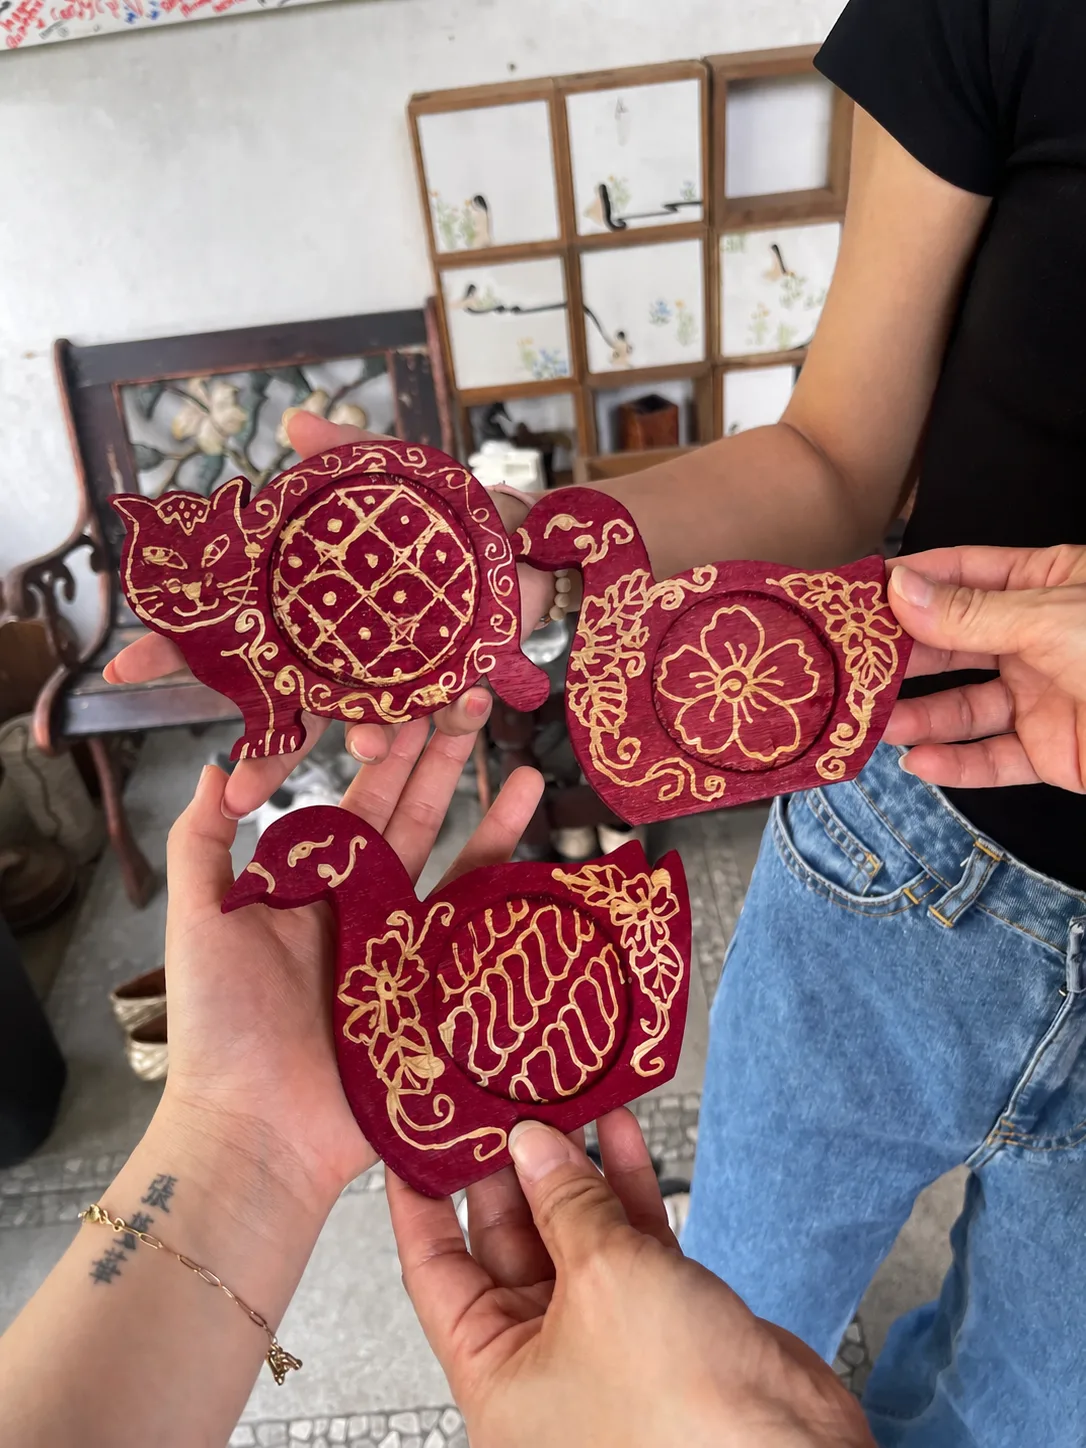
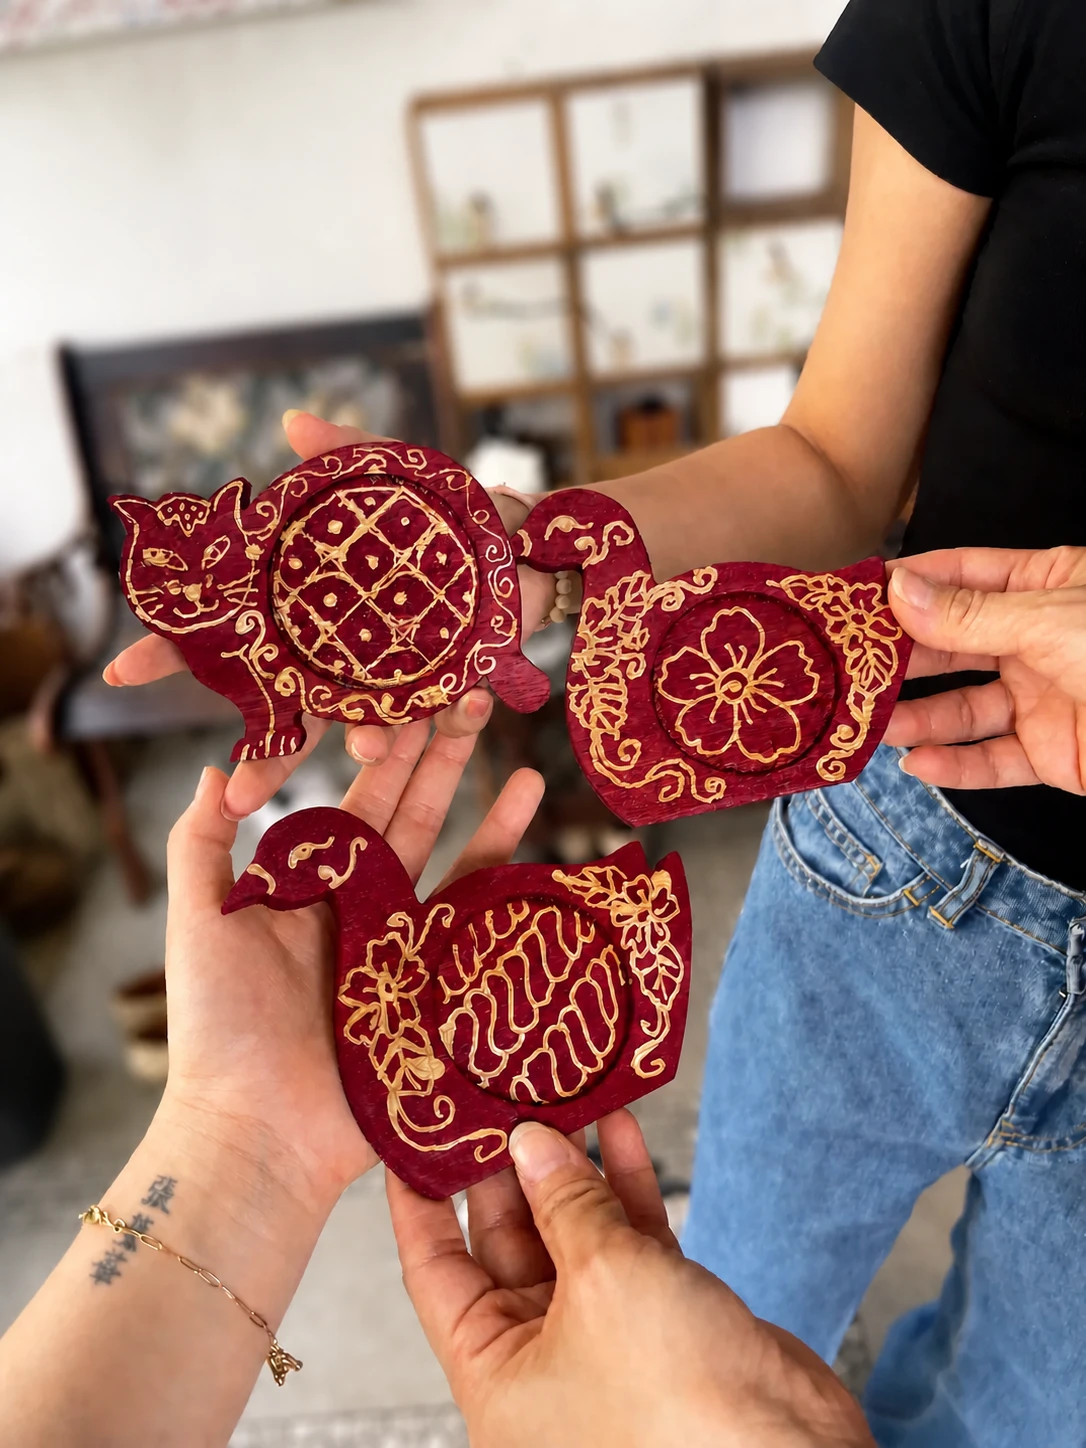
feat: add TicketBadge component to display ticket savings and badge information

diff --git a/src/components/tickets/TicketCard.tsx b/src/components/tickets/TicketCard.tsx
@@ -1,5 +1,6 @@
 import React from 'react';
 import type { Ticket } from '../../types/ticket';
+import { TicketBadge } from './TicketBadge';
 import { TicketMedia } from './TicketMedia';
 import { TicketPerforation } from './TicketPerforation';
 import { TicketPriceFooter } from './TicketPriceFooter';
@@ -97,6 +98,12 @@ export const TicketCard: React.FC<TicketCardProps> = ({
         {/* Top Content Area: Title & Content at top, Image expands to fill remaining space */}
         <div className="ticket-notch-body bg-background p-5 md:p-6 flex flex-col flex-1 gap-3">
           <div>
+            {ticket.badge && (
+              <div className="flex justify-between items-start mb-3">
+                <TicketBadge badge={ticket.badge} savings={ticket.savings} />
+              </div>
+            )}
+
             <h3 className="font-serif font-bold text-3xl md:text-4xl text-foreground mb-2 leading-tight">
               {ticket.title}
             </h3>
@@ -154,6 +161,12 @@ export const TicketCard: React.FC<TicketCardProps> = ({
 
           <div className="order-1 md:order-2 flex-1 w-full flex flex-col justify-between md:h-full">
             <div>
+              {ticket.badge && (
+                <div className="flex justify-between items-start mb-3">
+                  <TicketBadge badge={ticket.badge} savings={ticket.savings} />
+                </div>
+              )}
+
               <h3 className={`font-serif font-bold text-2xl md:text-3xl mb-2 ${isAccent ? 'text-background' : 'text-foreground'}`}>
                 {ticket.title}
               </h3>
@@ -214,6 +227,12 @@ export const TicketCard: React.FC<TicketCardProps> = ({
         >
           {/* Mobile: Text top (order-1), Desktop: Text right (order-2) */}
           <div className="order-1 md:order-2 flex-1 flex flex-col justify-start">
+            {ticket.badge && (
+              <div className="flex justify-between items-start mb-2">
+                <TicketBadge badge={ticket.badge} savings={ticket.savings} />
+              </div>
+            )}
+
             <h3 className={`font-serif font-bold text-2xl md:text-3xl mb-1.5 ${isAccent ? 'text-background' : 'text-foreground'}`}>
               {ticket.title}
             </h3>
@@ -255,6 +274,12 @@ export const TicketCard: React.FC<TicketCardProps> = ({
       >
         {/* Top Text Area (Title & Description) */}
         <div>
+          {ticket.badge && (
+            <div className="flex justify-between items-start mb-2">
+              <TicketBadge badge={ticket.badge} savings={ticket.savings} />
+            </div>
+          )}
+
           <h3 className={`font-serif font-bold text-2xl md:text-3xl mb-1.5 ${isAccent ? 'text-background' : 'text-foreground'}`}>
             {ticket.title}
           </h3>
